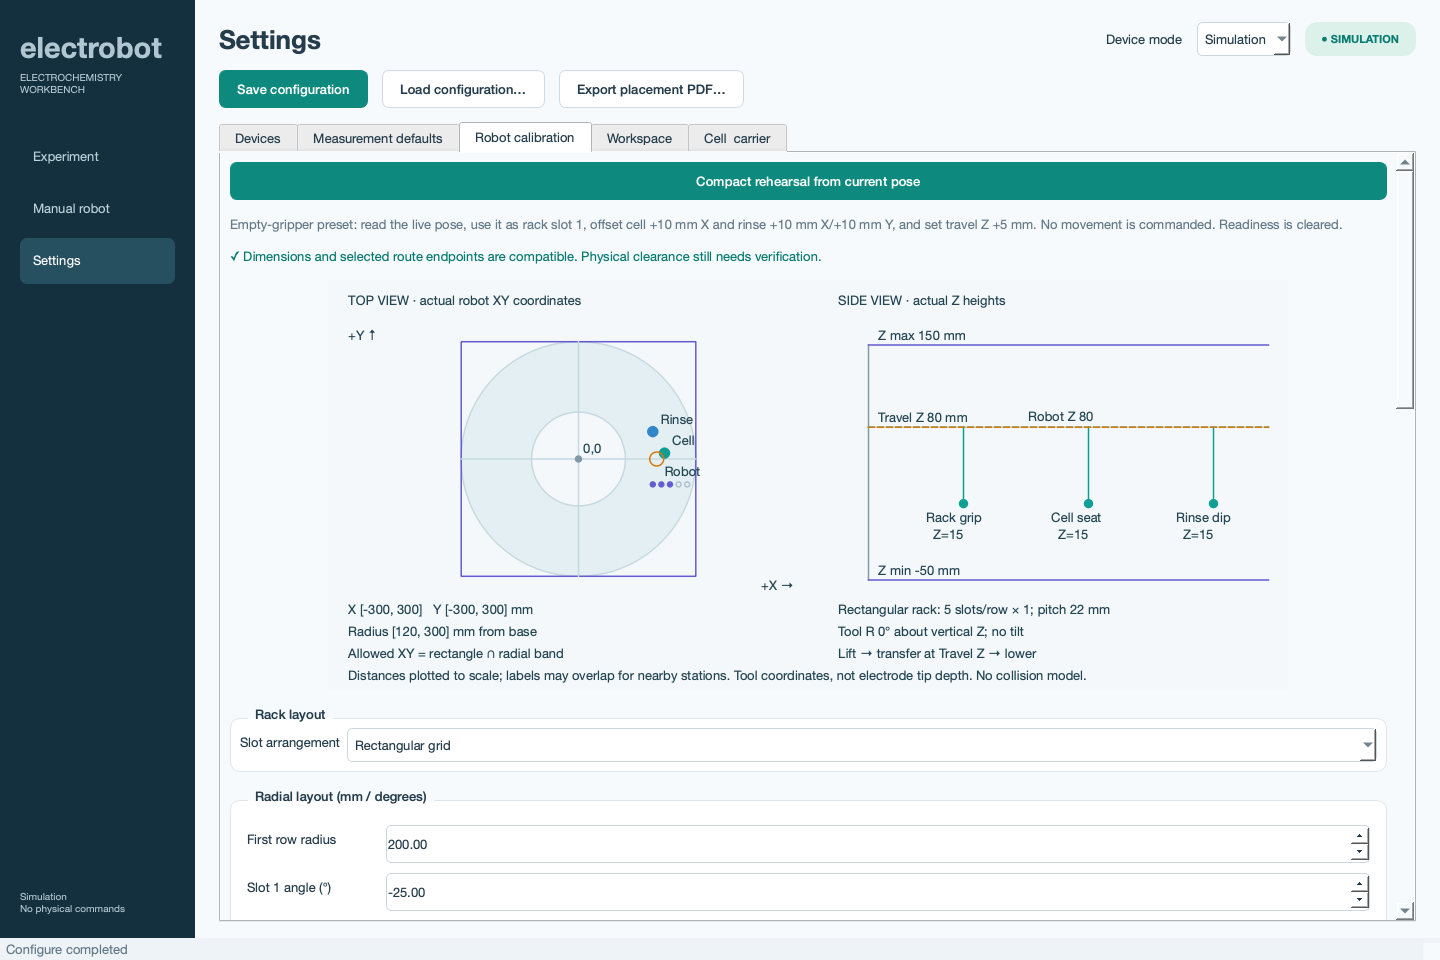
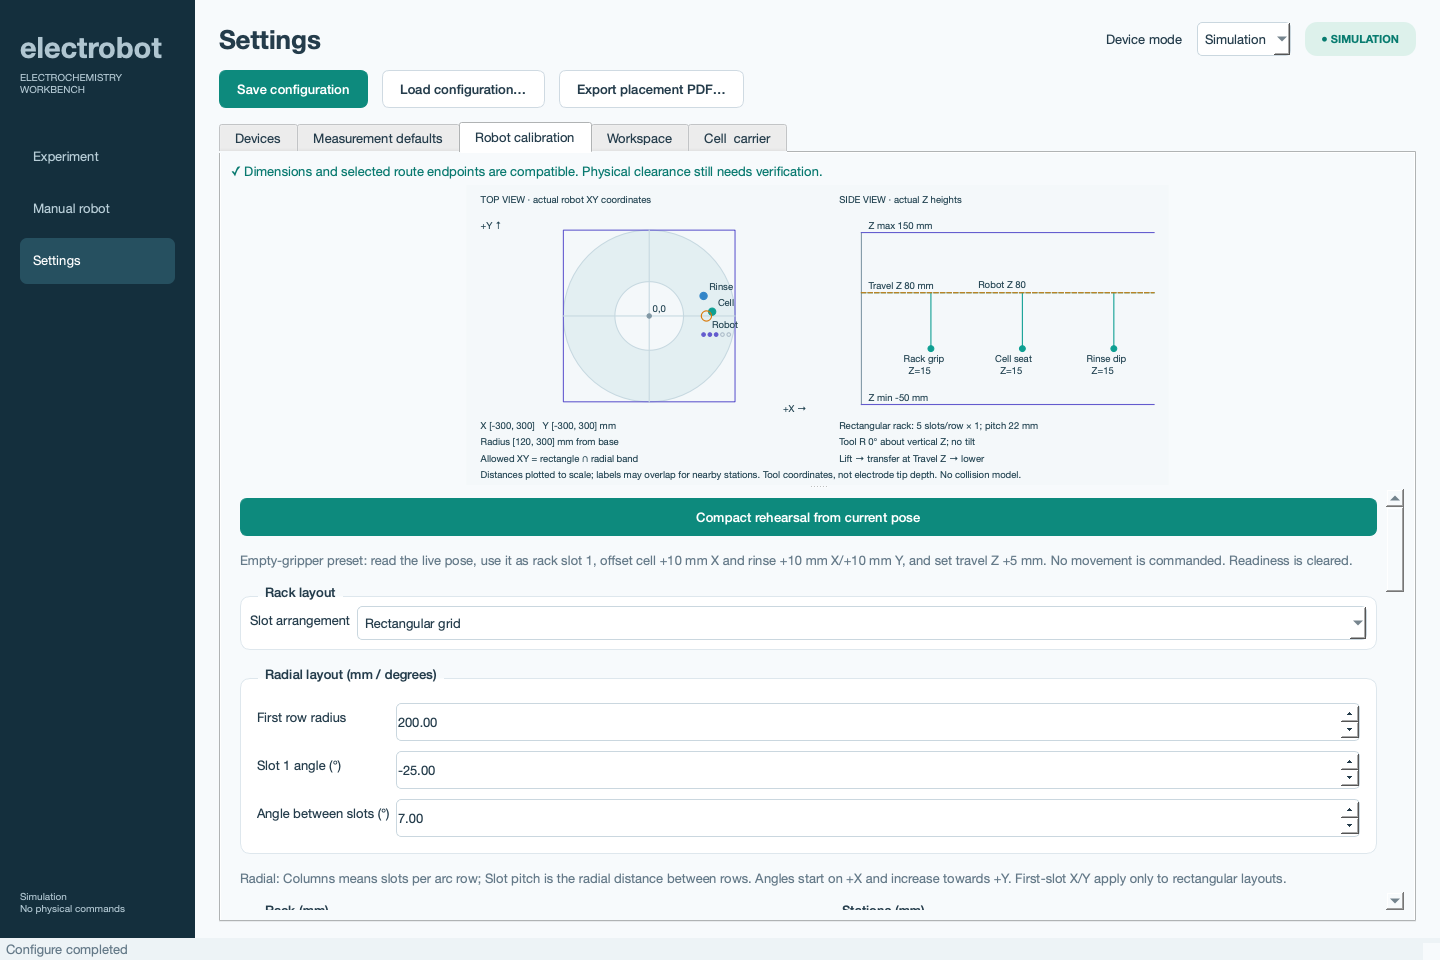
Keep calibration diagrams visible while settings scroll

diff --git a/electrobot/app.py b/electrobot/app.py
@@ -268,6 +268,18 @@ class Window(QMainWindow):
     def settings_tab(self,title):
         scroll=QScrollArea(); scroll.setWidgetResizable(True); scroll.setFrameShape(QScrollArea.Shape.NoFrame)
         content=QWidget(); layout=QVBoxLayout(content); layout.setSpacing(16); scroll.setWidget(content); self.settings_tabs.addTab(scroll,title); return layout
+    def calibration_tab(self,title):
+        tab=QWidget(); outer=QVBoxLayout(tab); outer.setContentsMargins(10,10,10,10)
+        feedback=self.note(''); outer.addWidget(feedback)
+        split=QSplitter(Qt.Orientation.Vertical); outer.addWidget(split,1)
+        diagram=CalibrationDiagram(workspace=True); diagram.setMinimumHeight(240); split.addWidget(diagram)
+        scroll=QScrollArea(); scroll.setWidgetResizable(True); scroll.setFrameShape(QScrollArea.Shape.NoFrame); scroll.setMinimumHeight(140)
+        content=QWidget(); layout=QVBoxLayout(content); layout.setSpacing(16); scroll.setWidget(content); split.addWidget(scroll)
+        split.setChildrenCollapsible(False); split.setSizes([300,400]); split.setStretchFactor(0,0); split.setStretchFactor(1,1)
+        split.setHandleWidth(8); split.handle(1).setToolTip('Drag to resize the diagram and settings areas')
+        split.setStyleSheet('QSplitter::handle:vertical { background: #d6e0e5; margin: 2px 0; }')
+        self.settings_tabs.addTab(tab,title)
+        return layout,feedback,diagram,scroll
     def make_settings(self):
         w,l=self.page(); actions=QHBoxLayout(); self.save_button=button('Save configuration',self.save,True); self.load_button=button('Load configuration…',self.load)
         self.placement_export=button('Export placement PDF…',self.export_placement)
@@ -281,11 +293,9 @@ class Window(QMainWindow):
         self.combo_field(f,'current_range_ua','Fixed current range',[(f'{v:g} µA',v) for v in (.001,.01,.1,1,10,100,1000,10000)])
         self.combo_field(f,'power_frequency','Mains frequency',[('50 Hz',50),('60 Hz',60)]); protocol.addWidget(acquisition)
         protocol.addWidget(self.note('Native PalmSens CV returns to its start potential. Hardware ignores the simulation multiplier. Current and potential values are recorded from SDK data; CSV time is nominal CV sample time.')); protocol.addStretch()
-        robot=self.settings_tab('Robot calibration')
+        robot,self.calibration_feedback,self.calibration_diagram,self.calibration_scroll=self.calibration_tab('Robot calibration')
         self.preset_button=button('Compact rehearsal from current pose',self.compact_rehearsal_preset,True); robot.addWidget(self.preset_button)
         robot.addWidget(self.note('Empty-gripper preset: read the live pose, use it as rack slot 1, offset cell +10 mm X and rinse +10 mm X/+10 mm Y, and set travel Z +5 mm. No movement is commanded. Readiness is cleared.'))
-        self.calibration_feedback=self.note(''); robot.addWidget(self.calibration_feedback)
-        self.calibration_diagram=CalibrationDiagram(workspace=True); robot.addWidget(self.calibration_diagram)
         layout_group=QGroupBox('Rack layout'); lf=QFormLayout(layout_group)
         self.combo_field(lf,'rack_layout','Slot arrangement',[('Rectangular grid','rectangular'),('Radial arcs around robot base','radial')]); robot.addWidget(layout_group)
         robot.addWidget(self.settings_group('Radial layout (mm / degrees)', [('rack_radius','First row radius',1,400),('rack_start_angle','Slot 1 angle (°)',-180,180),('rack_angle_step','Angle between slots (°)',.1,90)]))
@@ -311,9 +321,7 @@ class Window(QMainWindow):
         self.rack_export=button('Export rod rack STL + OpenSCAD…',self.export_rack); robot.addWidget(self.rack_export)
         robot.addWidget(self.note('Rack export includes complete rows through the last selected slot. Socket depth must exceed the tip length below the carrier shoulder. Choose compatible materials and verify printer-bed dimensions. Bare rods without a shoulder and flag electrodes need a different insert; teach rack Z after fitting the physical rack.'))
         robot.addWidget(self.note('Default coordinates and workspace bounds are placeholders. Position feedback verifies arm pose, not successful pickup or electrical contact. No automatic retry is enabled.')); robot.addStretch()
-        bounds=self.settings_tab('Workspace')
-        self.workspace_feedback=self.note(''); bounds.addWidget(self.workspace_feedback)
-        self.workspace_diagram=CalibrationDiagram(workspace=True); bounds.addWidget(self.workspace_diagram)
+        bounds,self.workspace_feedback,self.workspace_diagram,self.workspace_scroll=self.calibration_tab('Workspace')
         bounds.addWidget(self.note('These bounds constrain commanded endpoints. They do not model obstacles, joint limits or collision-free paths. Validate the complete travel route in the lab.'))
         bounds.addWidget(self.settings_group('Cartesian bounds (mm)', [(f'workspace_{axis}_{end}',f'{axis.upper()} {end}',-400,400) for axis in 'xyz' for end in ('min','max')]))
         bounds.addWidget(self.settings_group('Radial bounds from base (mm)', [('workspace_radius_min','Minimum radius',0,400),('workspace_radius_max','Maximum radius',1,400)])); bounds.addStretch()

diff --git a/tests/ui_smoke.py b/tests/ui_smoke.py
@@ -26,6 +26,14 @@ for i in range(3):
 for index in range(w.settings_tabs.count()):
     w.settings_tabs.setCurrentIndex(index); app.processEvents()
     w.grab().save(f'cad/ui-settings-{index}.png')
+for index,scroll,diagram in ((2,w.calibration_scroll,w.calibration_diagram),(3,w.workspace_scroll,w.workspace_diagram)):
+    w.settings_tabs.setCurrentIndex(index); app.processEvents()
+    diagram_top=diagram.mapTo(w,diagram.rect().topLeft())
+    scroll.verticalScrollBar().setValue(scroll.verticalScrollBar().maximum()); app.processEvents()
+    assert diagram.isVisible() and diagram.mapTo(w,diagram.rect().topLeft())==diagram_top
+    assert diagram.visibleRegion().boundingRect()==diagram.rect()
+    w.grab().save(f'cad/ui-settings-{index}-scrolled.png')
+    scroll.verticalScrollBar().setValue(0)
 w.nav.setCurrentRow(1); w.submit('jog',(0,1)); idle(); assert w.current_pose['x']==201
 assert w.experiment_tracker.pose==w.current_pose==w.manual_tracker.pose
 assert any(200<p['x']<201 for p in w.manual_tracker.trail)
